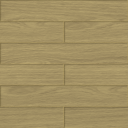
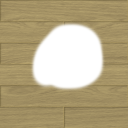
floor alpha added

Changed region(s): [[0.25, 0.1562, 0.8125, 0.7188]]

diff --git a/Final game2/ray_caster.py b/Final game2/ray_caster.py
@@ -6,6 +6,7 @@ from functions import *
 import numpy as np
 import fast_ray_cast
 
+
 from typing import TYPE_CHECKING
 
 if TYPE_CHECKING:
@@ -116,7 +117,7 @@ def cast_walls(player_x, player_y, player_ang, world_map, is_render=(1, 2, 3)):
 def cast_floor(
         player_x, player_y, player_ang,
         world_floor, world_ceiling,
-        floor_textures, texture_floor_alpha,
+        floor_textures, floor_textures_alpha,
         buffer_img
 ):
     # buffer_img = np.zeros((RenderWidth, RenderHeight, 3), dtype=np.uint8)
@@ -137,29 +138,16 @@ def cast_floor(
             if 0 <= y < len(world_floor):
                 x = int(ray_x // Tile_size)
                 if 0 <= x < len(world_floor[y]):
+                    tex_x_rel = int(((ray_x % Tile_size) / Tile_size) * Texture_Res)
+                    tex_y_rel = int(((ray_y % Tile_size) / Tile_size) * Texture_Res)
+
                     floor_id = world_floor[y][x]
-                    if floor_id != 0:
-                        floor_id -= 1
-                        buffer_img[id_x][RenderHeight - id_y - 1] = \
-                            floor_textures[floor_id][
-                                int(((ray_x % Tile_size) / Tile_size) * Texture_Res)
-                            ][
-                                int(((ray_y % Tile_size) / Tile_size) * Texture_Res)
-                            ]
+                    if floor_id != 0 and floor_textures_alpha[floor_id - 1][tex_x_rel][tex_y_rel] == 255:
+                        buffer_img[id_x][RenderHeight - id_y - 1] = floor_textures[floor_id - 1][tex_x_rel][tex_y_rel]
 
-                        # buffer_aph[id_x][RenderHeight - id_y - 1] = 255
-                    floor_id = world_ceiling[y][x]
-                    if floor_id != 0:
-                        floor_id -= 1
-                        buffer_img[id_x][id_y] = \
-                            floor_textures[floor_id][
-                                int(((ray_x % Tile_size) / Tile_size) * Texture_Res)
-                            ][
-                                int(((ray_y % Tile_size) / Tile_size) * Texture_Res)
-                            ]
-
-                        # buffer_img[id_x][id_y] = 255
-    # return buffer_img, buffer_aph
+                    ceiling_id = world_ceiling[y][x]
+                    if ceiling_id != 0 and floor_textures_alpha[ceiling_id - 1][tex_x_rel][tex_y_rel] == 255:
+                        buffer_img[id_x][id_y] = floor_textures[ceiling_id - 1][tex_x_rel][tex_y_rel]
 
 
 class RayCaster:
